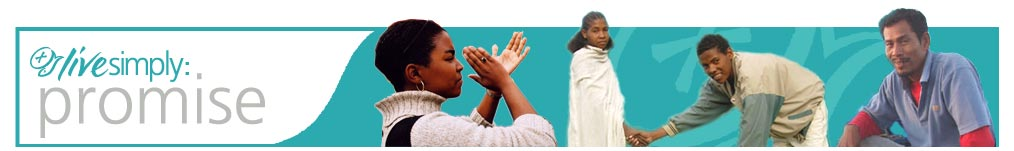
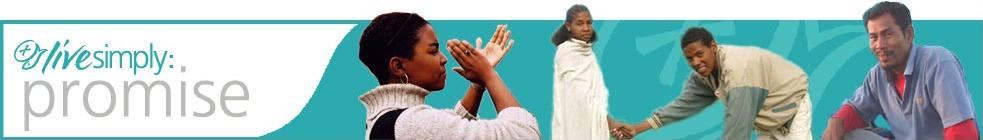
New header for livesimply.

diff --git a/pb/phplib/microsites.php b/pb/phplib/microsites.php
@@ -18,7 +18,7 @@
  * Copyright (c) 2005 UK Citizens Online Democracy. All rights reserved.
  * Email: francis@mysociety.org; WWW: http://www.mysociety.org/
  *
- * $Id: microsites.php,v 1.82 2007-01-05 15:26:44 matthew Exp $
+ * $Id: microsites.php,v 1.83 2007-01-05 21:07:44 matthew Exp $
  * 
  */
 
@@ -187,7 +187,7 @@ function microsites_logo() {
 ';
     } elseif ($microsite && $microsite == 'livesimply') {
         return '
-<h1 style="padding: 5px;"><a href="/"><img width="1014" height="151" src="/microsites/livesimply/livesimplyheader.jpg" alt="livesimply:promise" border="0"></a></h1>
+<h1><a href="/"><img width="983" height="140" src="/microsites/livesimply/livesimplyheader.jpg" alt="livesimply:promise" border="0"></a></h1>
 ';
     } elseif ($microsite && $microsite == 'o2') {
         return '
